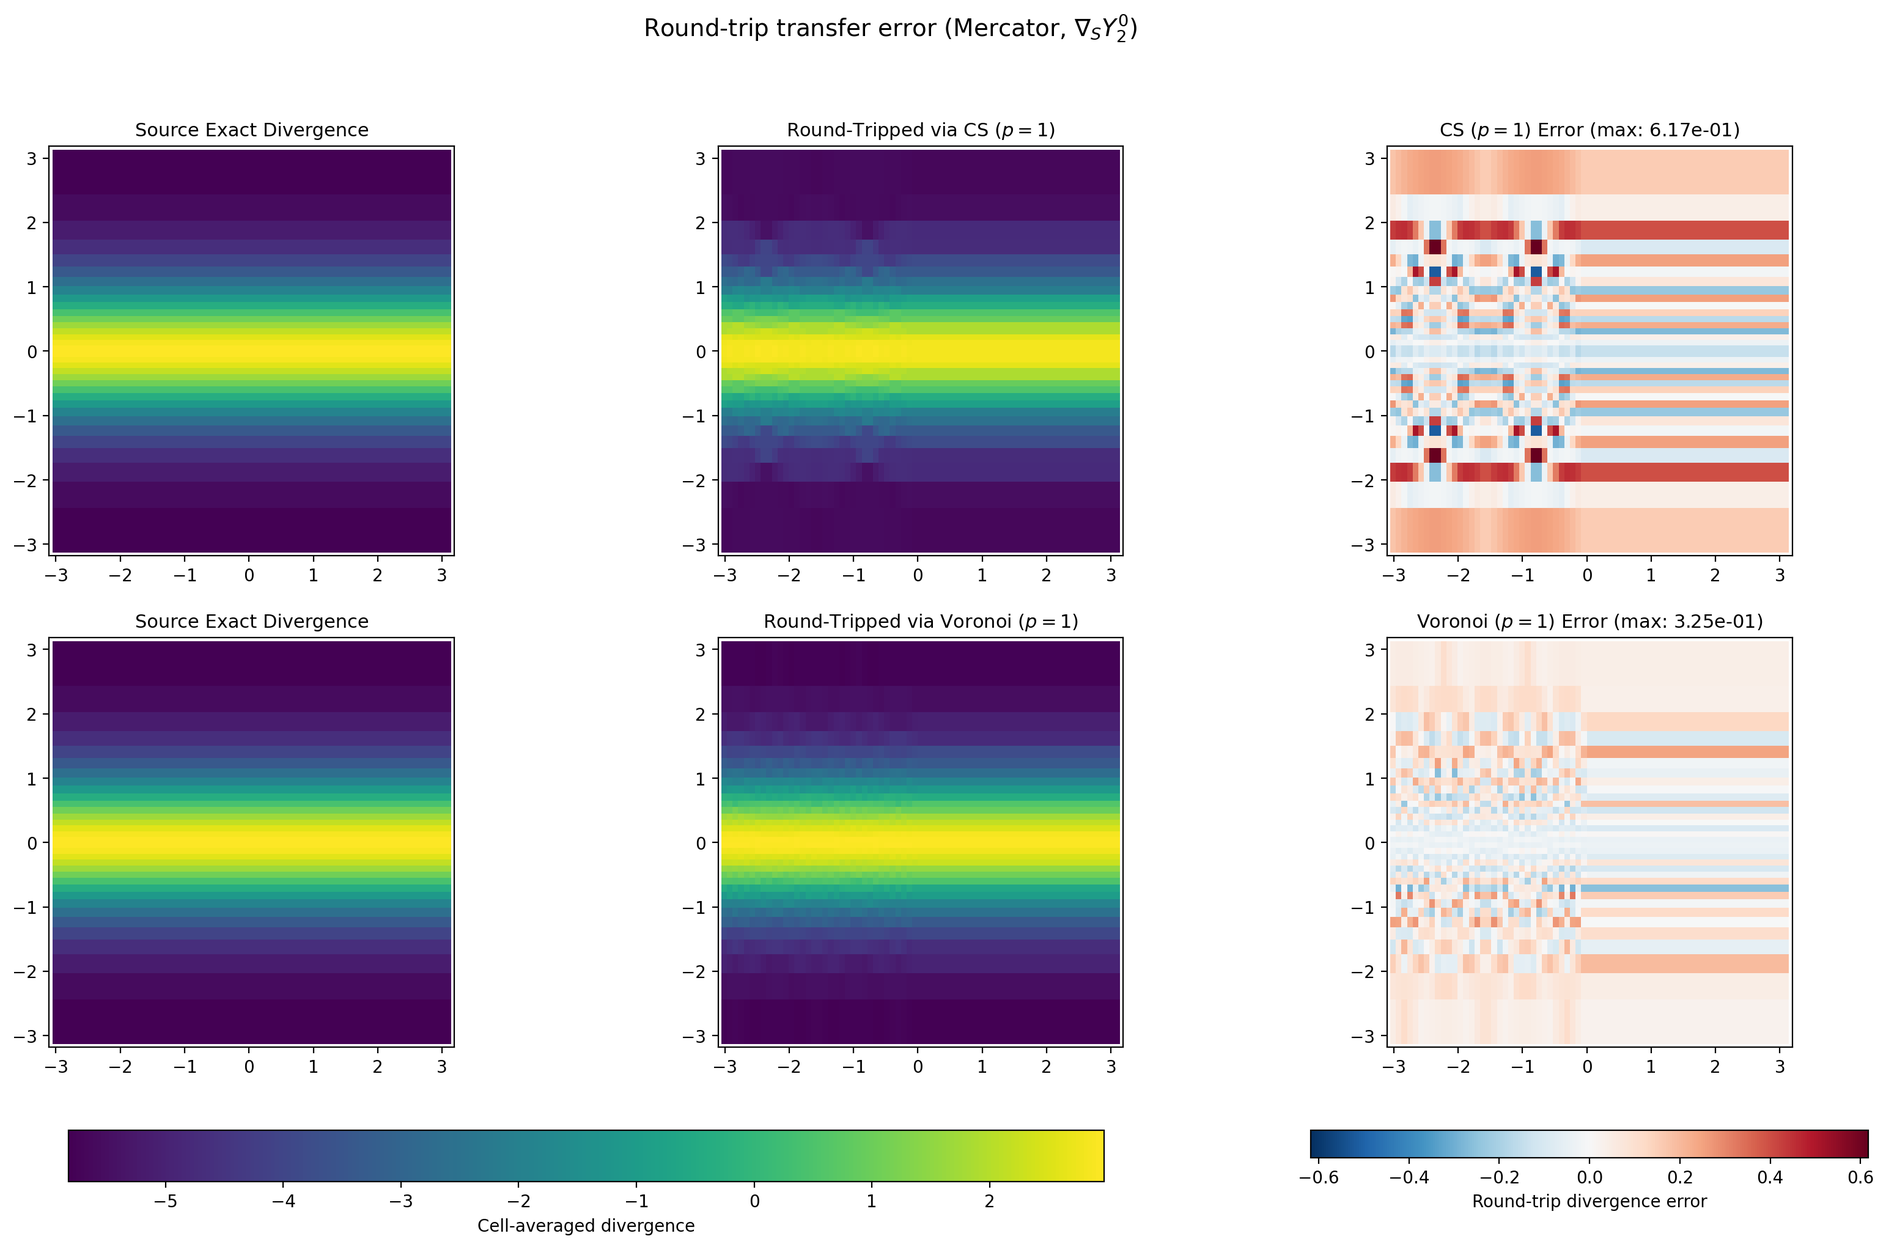
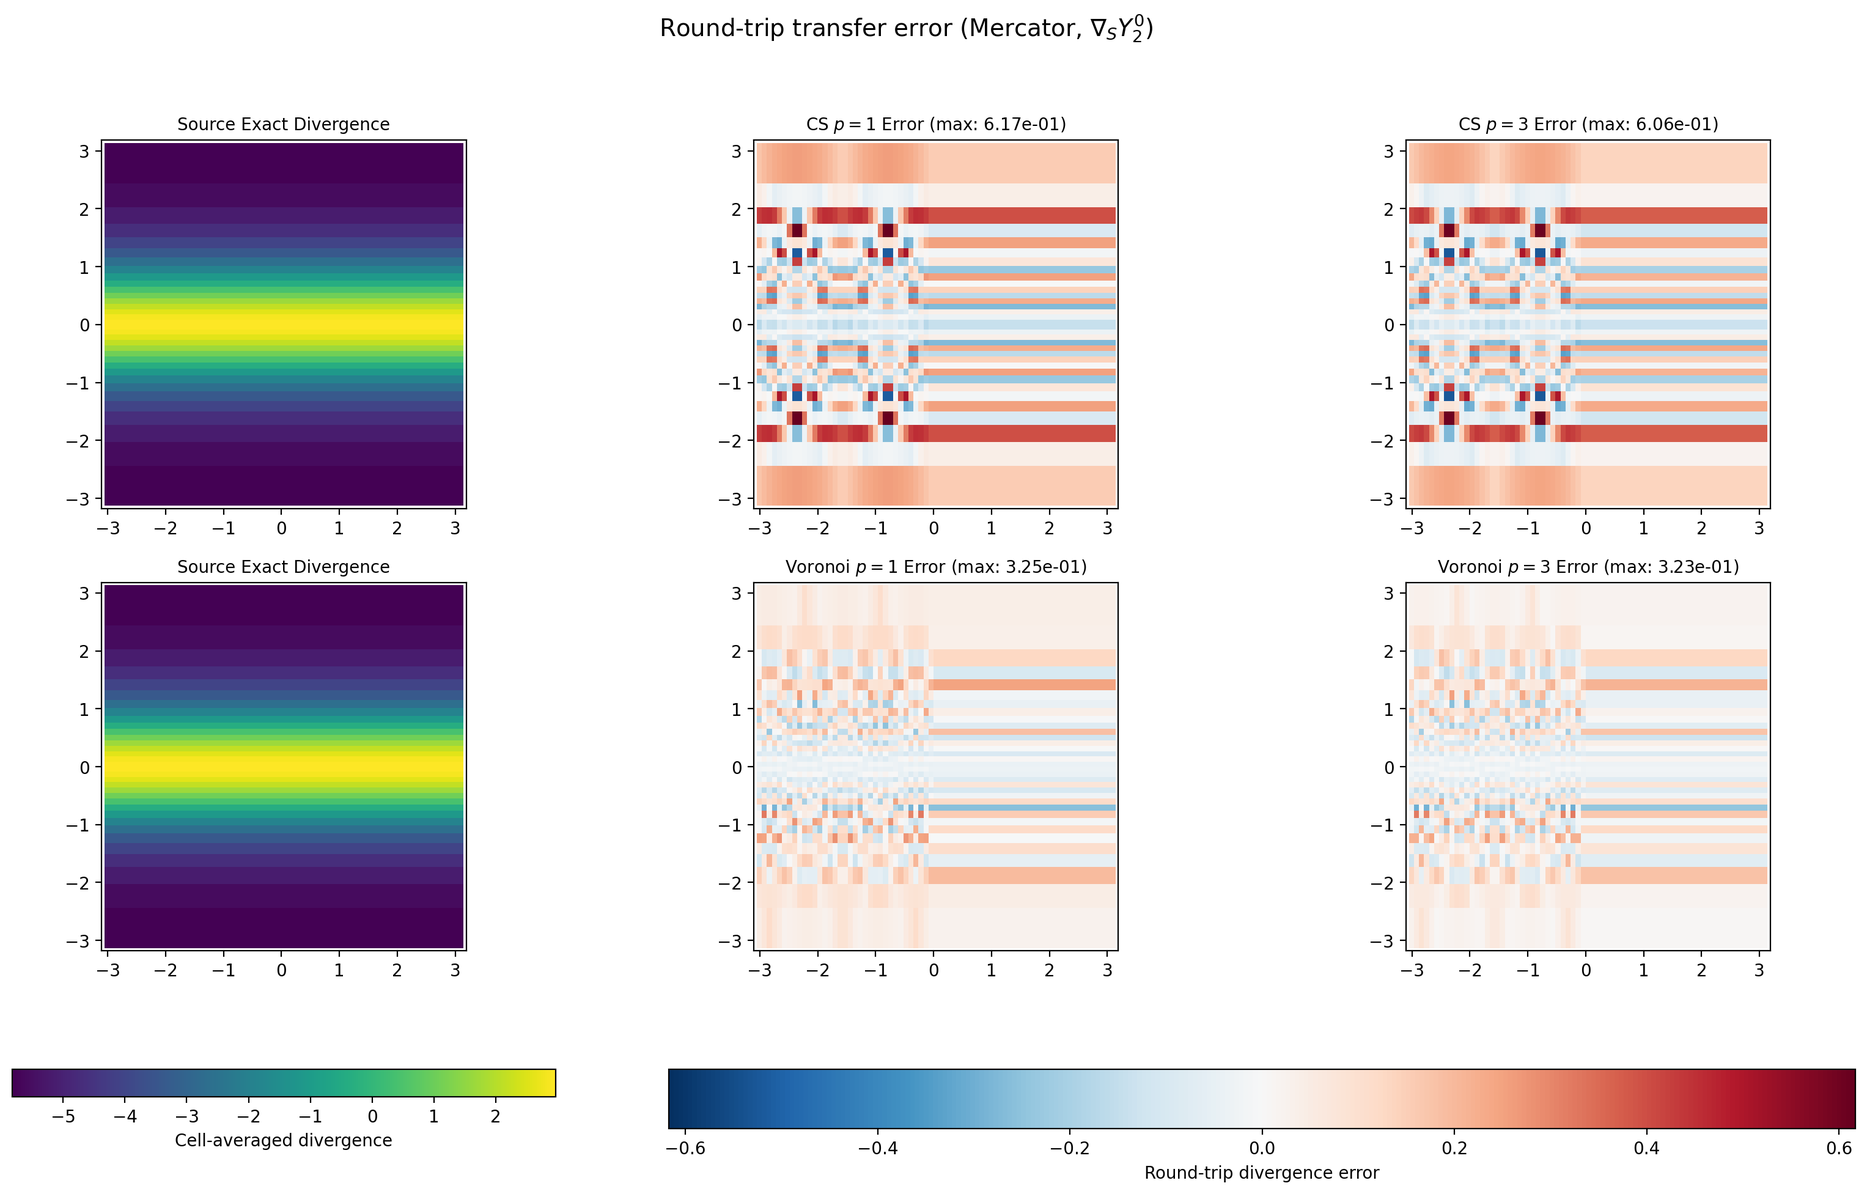
Add p=3 forward round-trip, fix figure layout, explain error asymmetry
dump_visuals.cpp:
- Add roundtrip_p3fwd(): p=3 forward (exact source moments via
  PlanarMomentInterpolator) with p=1 backward, using mesh duplication
  to a fresh MOAB instance
- Compute and dump both p=1 and p=3 round-trip errors for CS and
  Voronoi intermediates

visualize.py:
- Fix 2×3 layout (was 2×4 with empty column) for the Mercator figure
- Show: source exact | p=1 error | p=3 error for each row

Key finding: p=3 forward / p=1 backward gives nearly identical error
to p=1 / p=1 (CS: 6.06 vs 6.17, Voronoi: 3.23 vs 3.25). The round-trip
accuracy is limited by the weaker backward leg.

Report: explain why the error pattern is not zonally symmetric despite
Y_2^0 being a zonal field:
- CS: face boundaries at specific longitudes break zonal symmetry
- Voronoi: 5-fold icosahedral vertex placement
- Conservative flux assignment depends on mesh traversal order

diff --git a/tests/dump_visuals.cpp b/tests/dump_visuals.cpp
@@ -914,6 +914,143 @@ std::vector<double> roundtrip_p1(moab::Core& mb,
     return result;
 }
 
+/// Compute p=3-forward / p=1-backward round-trip divergence.
+/// The forward leg uses PlanarMomentInterpolator with exact p=3 source moments.
+/// The backward leg uses the transferred zeroth moments as p=1 edge fluxes.
+std::vector<double> roundtrip_p3fwd(moab::Core& mb_shared,
+                                     const std::vector<moab::EntityHandle>& source_cells,
+                                     const std::vector<moab::EntityHandle>& inter_cells,
+                                     const mimetic::GeometryOptions& spherical)
+{
+    using namespace mimetic::test_sphere;
+
+    // Forward: p=3 moment transfer source → intermediate (needs fresh MOAB)
+    moab::Core mb_fwd;
+    // Duplicate source mesh
+    std::vector<moab::EntityHandle> src_dup;
+    for (const moab::EntityHandle cell : source_cells) {
+        const moab::EntityHandle* conn = nullptr;
+        int nv = 0;
+        mimetic::check_moab(mb_shared.get_connectivity(cell, conn, nv), "get conn");
+        std::vector<Eigen::Vector3d> pts;
+        for (int v = 0; v < nv; ++v) {
+            double xyz[3];
+            mimetic::check_moab(mb_shared.get_coords(&conn[v], 1, xyz), "get coords");
+            pts.push_back(Eigen::Vector3d(xyz[0], xyz[1], xyz[2]));
+        }
+        src_dup.push_back(create_spherical_polygon(mb_fwd, pts));
+    }
+    // Duplicate intermediate mesh
+    std::vector<moab::EntityHandle> inter_dup;
+    for (const moab::EntityHandle cell : inter_cells) {
+        const moab::EntityHandle* conn = nullptr;
+        int nv = 0;
+        mimetic::check_moab(mb_shared.get_connectivity(cell, conn, nv), "get conn");
+        std::vector<Eigen::Vector3d> pts;
+        for (int v = 0; v < nv; ++v) {
+            double xyz[3];
+            mimetic::check_moab(mb_shared.get_coords(&conn[v], 1, xyz), "get coords");
+            pts.push_back(Eigen::Vector3d(xyz[0], xyz[1], xyz[2]));
+        }
+        inter_dup.push_back(create_spherical_polygon(mb_fwd, pts));
+    }
+
+    mimetic::PlanarMomentInterpolator fwd(mb_fwd);
+    fwd.set_geometry_options(spherical);
+    mimetic::MomentMethodOptions opts;
+    opts.edge_moment_order = 3;
+    opts.cell_moment_order = 2;
+    opts.quadrature_points = 10;
+    opts.regularization = 1.0e-12;
+    opts.exact_constraints = false;
+
+    // Set exact source moments
+    for (const moab::EntityHandle cell : src_dup) {
+        const mimetic::LocalPolygon poly = mimetic::local_polygon(mb_fwd, cell, spherical);
+        const std::vector<mimetic::LocalEdge> edges = mimetic::local_edges(mb_fwd, poly);
+        const mimetic::GnomonicFrame frame{poly.n, poly.e_x, poly.e_y, 1.0};
+        for (std::size_t ei = 0; ei < edges.size(); ++ei) {
+            const Eigen::Vector3d a3 = poly.points_3d[ei].normalized();
+            const Eigen::Vector3d b3 = poly.points_3d[(ei + 1) % poly.points_3d.size()].normalized();
+            const double total_angle = std::acos(std::max(-1.0, std::min(1.0, a3.dot(b3))));
+            std::vector<double> moments(4, 0.0);
+            for (int deg = 0; deg <= 3; ++deg) {
+                moments[deg] = integrate_edge_gauss16(edges[ei].a, edges[ei].b,
+                    [&](const Eigen::Vector2d& p_local) {
+                        const Eigen::Vector2d xi = p_local + poly.centroid;
+                        const Eigen::Vector3d pt = mimetic::inverse_gnomonic(xi, frame).normalized();
+                        const Eigen::Vector2d cv = mimetic::pullback_contravariant_piola(
+                            spherical_harmonic_gradient(pt), xi, frame);
+                        double t = 0.0;
+                        if (total_angle > 1e-12) {
+                            t = 2.0 * (std::acos(std::max(-1.0, std::min(1.0, a3.dot(pt)))) / total_angle) - 1.0;
+                        }
+                        double Lm = 1.0;
+                        if (deg == 1) Lm = t;
+                        else if (deg == 2) Lm = 0.5 * (3*t*t - 1);
+                        else if (deg == 3) Lm = 0.5 * (5*t*t*t - 3*t);
+                        return cv.dot(edges[ei].outward_normal) * Lm;
+                    });
+            }
+            fwd.set_source_edge_moments(cell, ei, moments);
+        }
+        // Cell vector moments
+        std::vector<Eigen::Vector2d> cm;
+        for (int td = 0; td <= 2; ++td) {
+            for (int a = td; a >= 0; --a) {
+                const int b = td - a;
+                double mx = 0, my = 0;
+                for (const mimetic::LocalEdge& edge : edges) {
+                    mx += mimetic::integrate_triangle_scalar(Eigen::Vector2d::Zero(), edge.a, edge.b,
+                        [&](const Eigen::Vector2d& p) {
+                            const Eigen::Vector2d xi = p + poly.centroid;
+                            const Eigen::Vector3d pt = mimetic::inverse_gnomonic(xi, frame).normalized();
+                            return mimetic::pullback_contravariant_piola(
+                                spherical_harmonic_gradient(pt), xi, frame).x() * std::pow(p.x(), a) * std::pow(p.y(), b);
+                        });
+                    my += mimetic::integrate_triangle_scalar(Eigen::Vector2d::Zero(), edge.a, edge.b,
+                        [&](const Eigen::Vector2d& p) {
+                            const Eigen::Vector2d xi = p + poly.centroid;
+                            const Eigen::Vector3d pt = mimetic::inverse_gnomonic(xi, frame).normalized();
+                            return mimetic::pullback_contravariant_piola(
+                                spherical_harmonic_gradient(pt), xi, frame).y() * std::pow(p.x(), a) * std::pow(p.y(), b);
+                        });
+                }
+                cm.push_back(Eigen::Vector2d(mx, my));
+            }
+        }
+        fwd.set_source_cell_vector_moments(cell, cm);
+        fwd.reconstruct_source_polygon(cell, opts);
+    }
+
+    // Forward transfer: source → intermediate (p=3 moments)
+    const mimetic::EdgeMomentTransferResult fwd_xfer =
+        fwd.transfer_source_to_target_edge_moments(src_dup, inter_dup, 3);
+
+    // Backward: use zeroth moments as p=1 fluxes → intermediate → source
+    mimetic::MimeticInterpolator bwd(mb_fwd);
+    bwd.set_geometry_options(spherical);
+    std::size_t dof = 0;
+    for (const moab::EntityHandle cell : inter_dup) {
+        const mimetic::LocalPolygon poly = mimetic::local_polygon(mb_fwd, cell, spherical);
+        for (std::size_t i = 0; i < poly.vertices.size(); ++i, ++dof)
+            bwd.set_source_edge_flux(cell, i, fwd_xfer.target_moments[dof][0]);
+    }
+    for (const moab::EntityHandle cell : inter_dup) bwd.reconstruct_source_polygon(cell);
+    const mimetic::EdgeTransferResult bwd_xfer = bwd.transfer_source_to_target_edges(inter_dup, src_dup);
+
+    std::vector<double> result;
+    dof = 0;
+    for (const moab::EntityHandle cell : src_dup) {
+        const mimetic::LocalPolygon poly = mimetic::local_polygon(mb_fwd, cell, spherical);
+        double flux = 0.0;
+        for (std::size_t e = 0; e < poly.vertices.size(); ++e, ++dof)
+            flux += bwd_xfer.target_fluxes[dof];
+        result.push_back(flux / poly.area);
+    }
+    return result;
+}
+
 /// Compute exact cell-averaged divergence from manufactured field.
 std::vector<double> exact_cell_divergence(moab::Core& mb,
                                           const std::vector<moab::EntityHandle>& cells,
@@ -1459,27 +1596,32 @@ int main()
             const auto ll_exact = exact_cell_divergence(mb, ll, spherical);
 
             std::cout << "  CS p=1 round-trip...\n";
-            const auto ll_cs = roundtrip_p1(mb, ll, cs, spherical);
+            const auto ll_cs_p1 = roundtrip_p1(mb, ll, cs, spherical);
             std::cout << "  Voronoi p=1 round-trip...\n";
-            const auto ll_vor = roundtrip_p1(mb, ll, vor, spherical);
+            const auto ll_vor_p1 = roundtrip_p1(mb, ll, vor, spherical);
+            std::cout << "  CS p=3fwd round-trip...\n";
+            const auto ll_cs_p3 = roundtrip_p3fwd(mb, ll, cs, spherical);
+            std::cout << "  Voronoi p=3fwd round-trip...\n";
+            const auto ll_vor_p3 = roundtrip_p3fwd(mb, ll, vor, spherical);
 
             dump_mercator_mesh("vis_mercator_roundtrip_source_exact.txt", mb, ll, ll_exact);
-            dump_mercator_mesh("vis_mercator_roundtrip_cs_p1.txt", mb, ll, ll_cs);
-            dump_mercator_mesh("vis_mercator_roundtrip_vor_p1.txt", mb, ll, ll_vor);
 
-            std::vector<double> cs_err, vor_err;
-            double max_cs = 0, max_vor = 0;
-            for (std::size_t i = 0; i < ll_exact.size(); ++i) {
-                cs_err.push_back(ll_cs[i] - ll_exact[i]);
-                vor_err.push_back(ll_vor[i] - ll_exact[i]);
-                max_cs = std::max(max_cs, std::abs(cs_err.back()));
-                max_vor = std::max(max_vor, std::abs(vor_err.back()));
-            }
-            dump_mercator_mesh("vis_mercator_roundtrip_cs_p1_error.txt", mb, ll, cs_err);
-            dump_mercator_mesh("vis_mercator_roundtrip_vor_p1_error.txt", mb, ll, vor_err);
+            auto dump_errors = [&](const std::string& tag, const std::vector<double>& roundtripped) {
+                std::vector<double> err;
+                double max_e = 0;
+                for (std::size_t i = 0; i < ll_exact.size(); ++i) {
+                    err.push_back(roundtripped[i] - ll_exact[i]);
+                    max_e = std::max(max_e, std::abs(err.back()));
+                }
+                dump_mercator_mesh("vis_mercator_roundtrip_" + tag + ".txt", mb, ll, roundtripped);
+                dump_mercator_mesh("vis_mercator_roundtrip_" + tag + "_error.txt", mb, ll, err);
+                std::cout << "  " << tag << " max error: " << max_e << "\n";
+            };
 
-            std::cout << "  CS max error: " << max_cs << "\n";
-            std::cout << "  Voronoi max error: " << max_vor << "\n";
+            dump_errors("cs_p1", ll_cs_p1);
+            dump_errors("vor_p1", ll_vor_p1);
+            dump_errors("cs_p3", ll_cs_p3);
+            dump_errors("vor_p3", ll_vor_p3);
         }
 
         std::cout << "\n[SUCCESS] All convergence and exact recovery checks passed.\n";

diff --git a/scripts/visualize.py b/scripts/visualize.py
@@ -299,74 +299,94 @@ def render_order_comparison(source_file: Path, output_dir: Path):
 
 
 def render_mercator_roundtrip(prefix: str, input_dir: Path, output_dir: Path):
-    """Render 2×3 Mercator round-trip: source exact, CS/Voronoi round-tripped, errors."""
+    """Render 2×5 Mercator round-trip: source | p=1 error | p=3 error × CS/Voronoi rows."""
     src_file = input_dir / f"{prefix}_source_exact.txt"
-    cs_p1_file = input_dir / f"{prefix}_cs_p1.txt"
-    cs_err_file = input_dir / f"{prefix}_cs_p1_error.txt"
-    vor_p1_file = input_dir / f"{prefix}_vor_p1.txt"
-    vor_err_file = input_dir / f"{prefix}_vor_p1_error.txt"
+    files = {}
+    for mesh in ["cs", "vor"]:
+        for order in ["p1", "p3"]:
+            tag = f"{mesh}_{order}"
+            f = input_dir / f"{prefix}_{tag}.txt"
+            ef = input_dir / f"{prefix}_{tag}_error.txt"
+            if f.exists() and ef.exists():
+                files[tag] = (f, ef)
 
-    # Fall back to 1×3 if no Voronoi data
-    has_voronoi = vor_p1_file.exists() and vor_err_file.exists()
-
-    if not all(f.exists() for f in [src_file, cs_p1_file, cs_err_file]):
+    if not src_file.exists() or not files:
         return
 
     src_polys, src_vals = read_mesh(src_file)
-    cs_polys, cs_vals = read_mesh(cs_p1_file)
-    _, cs_err_vals = read_mesh(cs_err_file)
 
-    all_polys = src_polys + cs_polys
-    if has_voronoi:
-        vor_polys, vor_vals = read_mesh(vor_p1_file)
-        _, vor_err_vals = read_mesh(vor_err_file)
-        all_polys += vor_polys
+    # Collect all data
+    data = {}
+    for tag, (f, ef) in files.items():
+        polys, vals = read_mesh(f)
+        _, err_vals = read_mesh(ef)
+        data[tag] = (polys, vals, err_vals)
 
+    # Compute global bounds
+    all_polys = list(src_polys)
+    for polys, _, _ in data.values():
+        all_polys += polys
     all_coords = np.concatenate([np.array(p) for p in all_polys if len(p) >= 3])
     xlo, ylo = all_coords.min(axis=0) - 0.05
     xhi, yhi = all_coords.max(axis=0) + 0.05
 
-    vmin = min(src_vals.min(), cs_vals.min())
-    vmax = max(src_vals.max(), cs_vals.max())
-    err_max = max(np.abs(cs_err_vals).max(), 1e-16)
-    if has_voronoi:
-        vmin = min(vmin, vor_vals.min())
-        vmax = max(vmax, vor_vals.max())
-        err_max = max(err_max, np.abs(vor_err_vals).max())
+    all_field_vals = [src_vals] + [v for _, v, _ in data.values()]
+    vmin = min(v.min() for v in all_field_vals)
+    vmax = max(v.max() for v in all_field_vals)
+    err_max = max(np.abs(e).max() for _, _, e in data.values())
+    err_max = max(err_max, 1e-16)
 
-    nrows = 2 if has_voronoi else 1
-    fig, axes = plt.subplots(nrows, 3, figsize=(20, 5.5 * nrows))
+    has_cs = "cs_p1" in data
+    has_vor = "vor_p1" in data
+    has_p3 = "cs_p3" in data or "vor_p3" in data
+    nrows = (1 if has_cs else 0) + (1 if has_vor else 0)
+    ncols = 3 if has_p3 else 2
+    fig, axes = plt.subplots(nrows, ncols, figsize=(6.5 * ncols, 4.5 * nrows + 1.5))
     if nrows == 1:
-        axes = axes.reshape(1, 3)
+        axes = axes.reshape(1, -1)
 
-    def fill_row(row_axes, field_polys, field_vals, err_polys, err_vals, label):
-        mappables = {}
-        for ax, polys, vals, cmap, clim, title in [
-            (row_axes[0], src_polys, src_vals, "viridis", (vmin, vmax), "Source Exact Divergence"),
-            (row_axes[1], field_polys, field_vals, "viridis", (vmin, vmax), f"Round-Tripped via {label}"),
-            (row_axes[2], err_polys, err_vals, "RdBu_r", (-err_max, err_max),
-             f"{label} Error (max: {np.abs(err_vals).max():.2e})"),
-        ]:
-            coll = PolyCollection(polys, array=vals, cmap=cmap, edgecolors="none", linewidths=0.1)
-            coll.set_clim(*clim)
-            ax.add_collection(coll)
-            ax.set_xlim(xlo, xhi)
-            ax.set_ylim(ylo, yhi)
-            ax.set_aspect("equal")
-            ax.set_title(title, fontsize=11)
-            mappables[cmap] = coll
-        return mappables
+    def fill_panel(ax, polys, vals, cmap, clim, title):
+        coll = PolyCollection(polys, array=vals, cmap=cmap, edgecolors="none", linewidths=0.1)
+        coll.set_clim(*clim)
+        ax.add_collection(coll)
+        ax.set_xlim(xlo, xhi)
+        ax.set_ylim(ylo, yhi)
+        ax.set_aspect("equal")
+        ax.set_title(title, fontsize=10)
+        return coll
 
-    m_cs = fill_row(axes[0], cs_polys, cs_vals, cs_polys, cs_err_vals, r"CS ($p=1$)")
-    if has_voronoi:
-        m_vor = fill_row(axes[1], vor_polys, vor_vals, vor_polys, vor_err_vals, r"Voronoi ($p=1$)")
+    row = 0
+    value_mappable = None
+    error_mappable = None
 
-    fig.colorbar(m_cs["viridis"], ax=axes[:, :2].ravel().tolist(),
-                 orientation="horizontal", fraction=0.05, pad=0.08,
-                 label="Cell-averaged divergence")
-    fig.colorbar(m_cs["RdBu_r"], ax=axes[:, 2].ravel().tolist(),
-                 orientation="horizontal", fraction=0.05, pad=0.08,
-                 label="Round-trip divergence error")
+    for mesh_label, mesh_key in [("CS", "cs"), ("Voronoi", "vor")]:
+        p1_key = f"{mesh_key}_p1"
+        p3_key = f"{mesh_key}_p3"
+        if p1_key not in data:
+            continue
+
+        p1_polys, p1_vals, p1_err = data[p1_key]
+
+        value_mappable = fill_panel(axes[row, 0], src_polys, src_vals, "viridis", (vmin, vmax),
+                                    "Source Exact Divergence")
+        error_mappable = fill_panel(axes[row, 1], p1_polys, p1_err, "RdBu_r", (-err_max, err_max),
+                                    f"{mesh_label} $p=1$ Error (max: {np.abs(p1_err).max():.2e})")
+
+        if p3_key in data:
+            p3_polys, p3_vals, p3_err = data[p3_key]
+            fill_panel(axes[row, 2], p3_polys, p3_err, "RdBu_r", (-err_max, err_max),
+                       f"{mesh_label} $p=3$ Error (max: {np.abs(p3_err).max():.2e})")
+
+        row += 1
+
+    if value_mappable is not None:
+        fig.colorbar(value_mappable, ax=axes[:, 0].ravel().tolist(),
+                     orientation="horizontal", fraction=0.06, pad=0.12,
+                     label="Cell-averaged divergence")
+    if error_mappable is not None:
+        fig.colorbar(error_mappable, ax=axes[:, 1:].ravel().tolist(),
+                     orientation="horizontal", fraction=0.06, pad=0.12,
+                     label="Round-trip divergence error")
 
     fig.suptitle(r"Round-trip transfer error (Mercator, $\nabla_S Y_2^0$)", fontsize=14)
     output_dir.mkdir(parents=True, exist_ok=True)

diff --git a/docs/mimetic_voronoi_report.tex b/docs/mimetic_voronoi_report.tex
@@ -1142,24 +1142,27 @@ Figure~\ref{fig:order-compare-voronoi} shows the same field on a
 \end{figure}
 
 Figure~\ref{fig:mercator-roundtrip} compares round-trip transfers through two
-different intermediate mesh topologies on the full sphere.  An exact
-\(\nabla_S Y_2^0\) field on a \(72\times36\) regular lat/lon grid is
-transferred to an intermediate mesh, reconstructed there at \(p=1\), and
-transferred back.  Top row: cubed-sphere intermediate (\(n=8\), 384 cells),
-showing face-boundary artifacts in the error (max~\(6.2\times10^{-1}\)).
-Bottom row: icosahedral dual Voronoi intermediate (642 cells), showing a
-smoother error distribution (max~\(3.3\times10^{-1}\)) because the
-icosahedral mesh has no sharp face boundaries.
+intermediate mesh topologies.  An exact \(\nabla_S Y_2^0\) field on a
+\(72\times36\) lat/lon grid is transferred to an intermediate mesh and back,
+shown at both \(p=1\) and \(p=3\) forward order (backward leg is \(p=1\) in
+all cases).  Top row: cubed-sphere intermediate (\(n=8\), 384 cells).  Bottom
+row: icosahedral dual Voronoi (642 cells).  Although \(Y_2^0\) is zonally
+symmetric, the error is not: the cubed-sphere error shows the imprint of the
+six face boundaries (at specific longitudes where charts change alignment),
+while the Voronoi error reflects the five-fold icosahedral vertex placement.
+The \(p=3\) column shows negligible improvement over \(p=1\) because the
+round-trip accuracy is limited by the weaker backward leg.
 
 \begin{figure}[htbp]
   \centering
   \includegraphics[width=\textwidth]{vis_mercator_roundtrip_mercator.png}
-  \caption{Round-trip transfer: lat/lon \(\to\) intermediate \(\to\) lat/lon
-  in Mercator projection.  Top row: cubed-sphere intermediate.  Bottom row:
-  icosahedral dual (Voronoi) intermediate.  Each row shows source exact
-  divergence, round-tripped field, and error.  The Voronoi mesh produces lower
-  error with a more uniform spatial distribution.
-  Polar caps (\(|\mathrm{lat}|>85^\circ\)) are excluded.}
+  \caption{Round-trip: lat/lon \(\to\) intermediate \(\to\) lat/lon in
+  Mercator projection.  Top: cubed-sphere, bottom: icosahedral dual Voronoi.
+  Each row shows source exact divergence (left), \(p=1\) round-trip error
+  (center), and \(p=3\)-forward / \(p=1\)-backward error (right).  The
+  non-zonal error structure reflects the intermediate mesh topology: CS face
+  boundaries (top) and icosahedral vertex placement (bottom).
+  Polar caps (\(|\mathrm{lat}|>85^\circ\)) excluded.}
   \label{fig:mercator-roundtrip}
 \end{figure}
 
